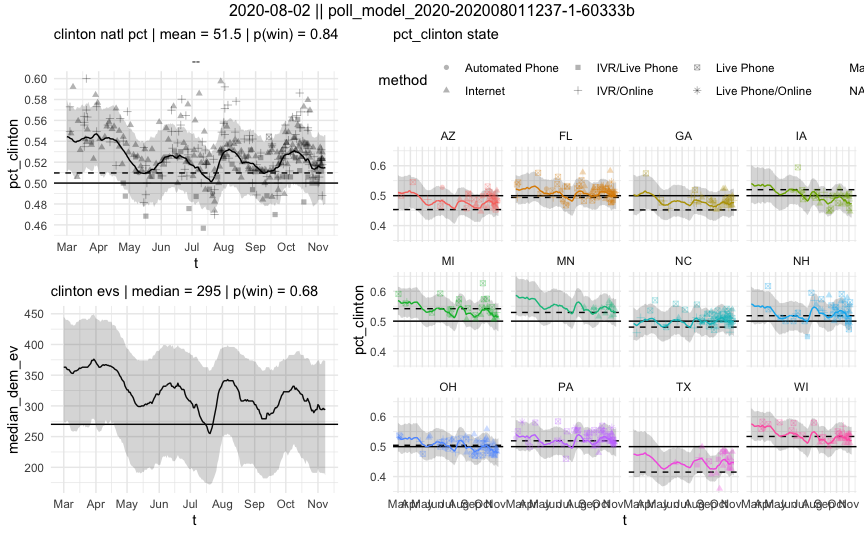
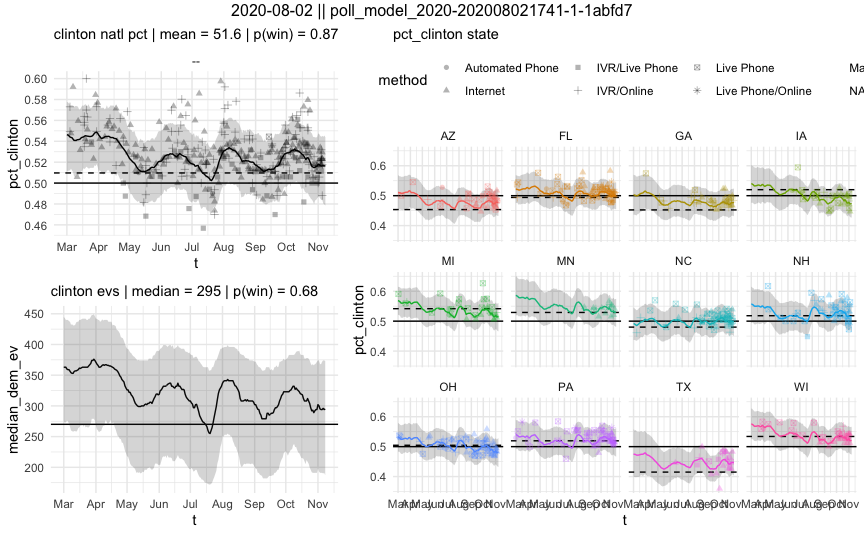
updated readme

diff --git a/README.md b/README.md
@@ -1,6 +1,6 @@
 State and national presidential election forecasting model
 ================
-Last update on Sunday August 02, 2020 at 12:22 PM EDT
+Last update on Sunday August 02, 2020 at 06:21 PM EDT
 
 Code for a dynamic multilevel Bayesian model to predict US presidential
 elections. Written in R and Stan.
@@ -284,7 +284,7 @@ Here is a graphical summary of the model’s performance in 2008, 2012 and
 | PA    | 0.513 | 0.467 | 0.561 | 0.702 | 0.029 |
 | MI    | 0.515 | 0.467 | 0.561 | 0.724 | 0.028 |
 | NH    | 0.515 | 0.467 | 0.562 | 0.728 | 0.028 |
-| –     | 0.515 | 0.480 | 0.546 | 0.843 | 0.019 |
+| –     | 0.516 | 0.478 | 0.544 | 0.870 | 0.016 |
 | CO    | 0.517 | 0.470 | 0.561 | 0.775 | 0.026 |
 | OH    | 0.482 | 0.432 | 0.529 | 0.218 | 0.028 |
 | WI    | 0.521 | 0.473 | 0.568 | 0.809 | 0.028 |
